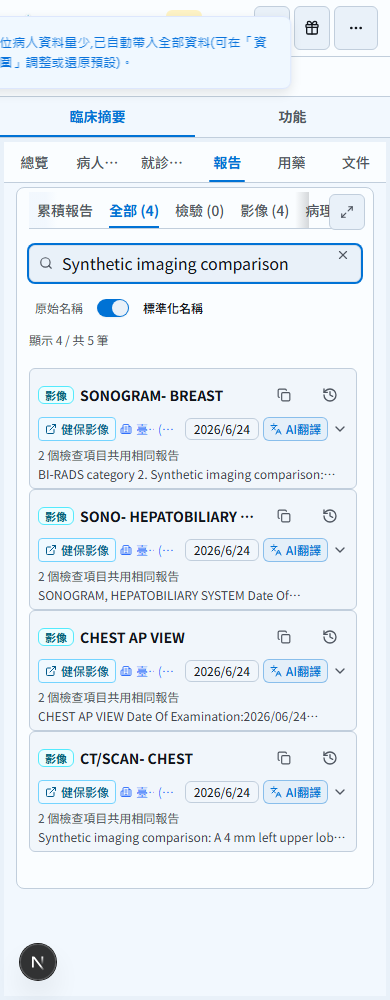
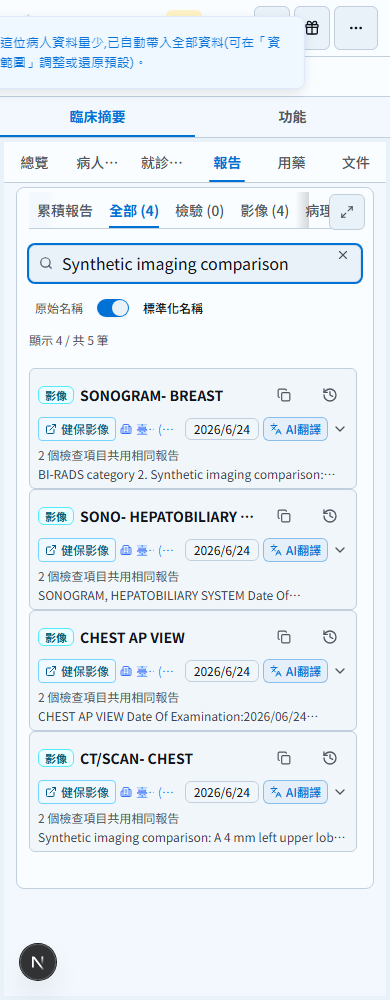
test: verify attachment report layouts and record release evidence

Changed region(s): [[0.0, 0.031, 0.7077, 0.093]]

diff --git a/e2e/tests/reports-cross-source-imaging.spec.ts b/e2e/tests/reports-cross-source-imaging.spec.ts
@@ -60,27 +60,32 @@ test('imaging copies retain all sources and open the correct NHI viewer', async 
   await page.getByRole('tab').filter({ hasText: '報告' }).first().click()
   await page.getByRole('tab').filter({ hasText: /^全部/ }).first().click()
   await page.getByPlaceholder(/搜尋/).fill(marker)
-  const rows = page.locator('[data-tour="report-tour-row"]').filter({ visible: true })
+  const rows = page.getByRole('tabpanel', { name: /^全部/ }).locator('[data-tour="report-tour-row"], [data-slot="accordion-item"]').filter({ visible: true })
   await expect(rows).toHaveCount(before ? 8 : 4)
   // Capture the same explicit state on both revisions, independently of the
   // app's responsive/default expansion preferences.
-  for (const header of await rows.locator('[role="button"][aria-expanded]').all()) {
+  for (const row of await rows.all()) {
+    const header = row.locator('[aria-expanded]').first()
     if (await header.getAttribute('aria-expanded') === 'true') await header.press('Enter')
   }
   const output = process.env.IMAGING_EVIDENCE_DIR || testInfo.outputDir
   await fs.mkdir(output, { recursive: true })
+  if (path.resolve(output) !== path.resolve(testInfo.outputDir)) await fs.copyFile(fixture, path.join(output, 'synthetic-imaging.json'))
   for (const width of [1440, 1024, 768, 430, 390, 320]) {
     await page.setViewportSize({ width, height: 1000 })
     await expect.poll(() => page.evaluate(() => document.documentElement.scrollWidth - document.documentElement.clientWidth)).toBeLessThanOrEqual(1)
     if (!before) {
       const source = rows.first().locator('[aria-label^="臺北榮總"]').first()
       const date = await rows.first().getByText('2026/6/24', { exact: true }).first().boundingBox()
-      const textRight = await source.locator('span').evaluateAll(spans => Math.max(...spans.map(span => {
+      const textBoxes = await source.locator('span').evaluateAll(spans => spans.map(span => {
         const rect = span.getBoundingClientRect()
-        return rect.width ? rect.right : 0
-      })))
+        return { left: rect.left, right: rect.right, top: rect.top, bottom: rect.bottom, width: rect.width, height: rect.height }
+      }).filter(rect => rect.width > 0 && rect.height > 0))
       expect(date).not.toBeNull()
-      expect(textRight).toBeLessThanOrEqual(date!.x + 1)
+      // Attachment panels may wrap metadata onto separate lines. Assert actual
+      // rectangle separation rather than assuming source/date share one row.
+      expect(textBoxes.every(box => box.right <= date!.x + 1 || box.left >= date!.x + date!.width - 1
+        || box.bottom <= date!.y + 1 || box.top >= date!.y + date!.height - 1)).toBe(true)
     }
     await page.screenshot({ path: path.join(output, `${before ? 'before' : 'after'}-${width}.png`), fullPage: true })
   }
@@ -90,7 +95,7 @@ test('imaging copies retain all sources and open the correct NHI viewer', async 
     await expect(rows.filter({ hasText: 'SONOGRAM- BREAST' })).toHaveCount(1)
     await page.getByPlaceholder(/搜尋/).fill(marker)
     const first = rows.filter({ hasText: 'SONOGRAM- BREAST' })
-    const header = first.locator('[role="button"][aria-expanded]').first()
+    const header = first.locator('[aria-expanded]').first()
     if (await header.getAttribute('aria-expanded') !== 'true') await header.press('Enter')
     const sources = first.getByTestId('shared-report-sources')
     await sources.locator('summary').click()

diff --git a/docs/evidence/imaging-report-dedup-20261021/README.md b/docs/evidence/imaging-report-dedup-20261021/README.md
@@ -3,11 +3,13 @@
 All records, report text, identifiers and viewer responses in these screenshots are synthetic. No patient export or authenticated NHI response is included.
 
 Before: `af0bfe42c50ecba16b62a58a35ba4808c79b472e` (PR base).
-After application code: `b65d1dd4ae10fd880c0f7719c8086df17e11179c` (latest master integrated; study/clinical-notation boundaries and per-source history corrected). The following evidence/test-only commit does not change application code.
+After application code: `3863caf903701c687db989b39b8e5d31004cf149` (latest master integrated; study/clinical-notation boundaries and per-source attachment history/exam dates corrected). The following evidence/test-only commit does not change application code.
 
 Both isolated checkouts ran `e2e/tests/reports-cross-source-imaging.spec.ts` with the same generated bundle, locale, light theme, collapsed report rows, search and viewport. Before uses `IMAGING_BEFORE=1`; assertions expect eight rows before and four groups after. Six widths passed: 320, 390, 430, 768, 1024 and 1440 CSS pixels, height 1000.
 
 One prior NHI report remains outside the search, so the filtered display is 8/9 before and 4/5 after. Searching the NHI breast-ultrasound title still finds the merged row. Each original title has its own history action; opening the NHI source history displays its prior report without inferring aliases across body parts.
+
+Both conclusion-based and attachment-only browser variants pass. Set `IMAGING_TEXT_ATTACHMENTS=1` for the latter: breast report bodies and prior history exist only in base64 text/plain attachments. History retains those attachments and uses the source examination day, including effectivePeriod and UTC-to-Taiwan day boundaries (also tested under UTC). Existing conclusions, notes and non-imaging date rendering are preserved.
 
 | Before | After |
 | --- | --- |
